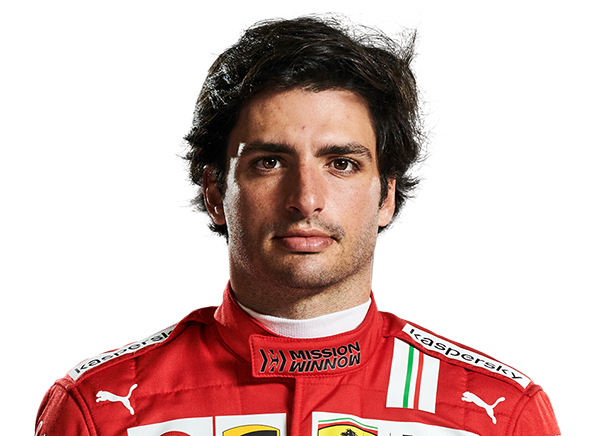
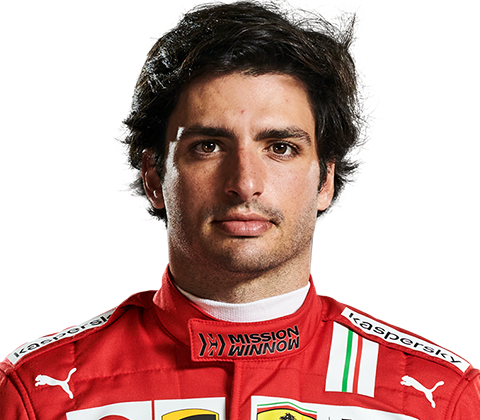
Responsiveness, resolution dependent
Resized some images, implemented a new font, made it so the element sizes are not pixel dependent

diff --git a/BrakingPoint-Frontend/src/views/FerrariTeamView.vue b/BrakingPoint-Frontend/src/views/FerrariTeamView.vue
@@ -1,80 +1,84 @@
 <script setup lang="ts"></script>
 
 <template>
-  <img class="backgroundImage" src="/src/assets/backgrounds/ferrari.png" />
-  <div class="row zdefault">
-    <div class="col-lg-5 col-md-2 col-12" style="position: relative">
-      <img
-        alt="Ferrari"
-        src="/src/assets/teamsymbols/ferrari.png"
-        style="max-width: 500px; margin-left: -100px"
-      />
+  <q-layout>
+    <div>
+      <q-img class="backgroundImage" src="/src/assets/backgrounds/ferrari.png" />
     </div>
-    <div class="col-lg-3 col-md-5 col-12 mx-auto zdefault">
-      <img
-        alt="Forest"
-        src="/src/assets/teammembers/ferrari_charles_leclerc.png"
-        style="height: 25rem"
-      />
-      <p class="racerName">Charles Leclerc</p>
+    <div class="row zdefault">
+      <div class="col-lg-5 col-md-4 col-12" style="position: relative">
+        <q-img alt="Ferrari" src="/src/assets/teamsymbols/ferrari.png" style="max-width: 17.5rem" />
+      </div>
+      <div class="col-lg-3 col-md-4 col-12 zdefault">
+        <q-img
+          alt="Charles Leclerc"
+          class="racerPicture"
+          src="/src/assets/teammembers/ferrari_charles_leclerc.png"
+        />
+        <p class="racerName">Charles Leclerc</p>
+      </div>
+      <div class="col-lg-4 col-md-4 col-12 zdefault">
+        <q-img
+          alt="Carlos Sainz"
+          class="racerPicture"
+          src="/src/assets/teammembers/ferrari_carlos_sainz.png"
+        />
+        <p class="racerName">Carlos Sainz</p>
+      </div>
     </div>
-    <div class="col-lg-4 col-md-4 col-12">
-      <img
-        alt="Mountains"
-        src="/src/assets/teammembers/ferrari_carlos_sainz.png"
-        style="height: 25rem"
-      />
-      <p class="racerName">Carlos Sainz</p>
-    </div>
-  </div>
 
-  <div style="position: relative">
-    <label class="teamInfo">
-      28 nyert futam
-      <br />
-    </label>
-    <label class="teamInfo">
-      12 a mostani szezonban
-      <br />
-    </label>
-    <label class="teamInfo">
-      3. helyezés a csapatok között
-      <br />
-    </label>
-    <label class="teamInfo">
-      placeholder info here
-      <br />
-    </label>
-  </div>
-  <div class="teamDescriptionBackground">
-    <p class="teamDescription">
-      Very Long Description aaaaaaaaaa aaaaaaaa aaaaaaaaaa aaaaaaaaaaaa aaaaaaa aaaaa aaaaaaaaaaaa
-      aaaaa aaaaaa aaaaaaaa aaaaaaaaaa aaaaaaaa aaaaaaaaaaa aaaaaaaa aaaaaa aaa aaaaa aaaa aaaaaaaa
-      aaaaaaa aaaaaaa aaaaaa aaaaaaaaaaaaaa aaaaaaa a aa aaa aaaaaaaaaaaaaaaaaaaaaaaaaaa dvbas
-      dbasfb afd b fda b sdfbndsmfknbksd kjfh kjfdh gkjhskjfhg lkjfsdhglkjsadhfglkja hklfhgla kj hd
-      glkjahsdflkg haljkhfdg lkash gkljahslkg
-    </p>
-  </div>
+    <div style="position: relative">
+      <p class="teamInfo">
+        28 nyert futam
+        <br />
+      </p>
+      <p class="teamInfo">
+        12 a mostani szezonban
+        <br />
+      </p>
+      <p class="teamInfo">
+        3. helyezés a csapatok között
+        <br />
+      </p>
+      <p class="teamInfo">
+        placeholder info here
+        <br />
+      </p>
+    </div>
+    <div class="teamDescriptionBackground">
+      <p class="teamDescription">
+        Very Long Description aaaaaaaaaa aaaaaaaa aaaaaaaaaa aaaaaaaaaaaa aaaaaaa aaaaa aaaaaaaaaaaa
+        aaaaa aaaaaa aaaaaaaa aaaaaaaaaa aaaaaaaa aaaaaaaaaaa aaaaaaaa aaaaaa aaa aaaaa aaaa
+        aaaaaaaa aaaaaaa aaaaaaa aaaaaa aaaaaaaaaaaaaa aaaaaaa a aa aaa aaaaaaaaaaaaaaaaaaaaaaaaaaa
+        dvbas dbasfb afd b fda b sdfbndsmfknbksd kjfh kjfdh gkjhskjfhg lkjfsdhglkjsadhfglkja
+        hklfhgla kj hd glkjahsdflkg haljkhfdg lkash gkljahslkg
+      </p>
+    </div>
+  </q-layout>
 </template>
 
 <style lang="scss" scoped>
+  @font-face {
+    font-family: Wallpoet;
+    src: url(src/assets/fonts/Wallpoet-Regular.otf);
+  }
   .teamInfo {
     color: white;
     font-family: "Yrsa";
     font-style: normal;
     font-weight: 600;
-    font-size: 24px;
-    line-height: 44px;
-    letter-spacing: 0.1em;
+    font-size: 1.5em;
+    line-height: 1.5em;
+    letter-spacing: 0.2em;
   }
 
   .teamDescription {
-    padding: 10px, 10px, 10px, 10px;
+    padding: 0.75rem;
     font-family: "Yrsa";
     font-style: normal;
     font-weight: 400;
-    font-size: 36px;
-    line-height: 44px;
+    font-size: 1.5em;
+    line-height: 1em;
     letter-spacing: 0.1em;
     word-wrap: normal;
 
@@ -85,39 +89,42 @@
     box-sizing: border-box;
 
     margin: auto;
-    margin-top: 75px;
+    margin-top: 2rem;
     position: relative;
     width: 90%;
     height: 250px;
+    border: 0.5em solid #a11717;
     opacity: 1;
-    background: #e6002b;
-    border-radius: 20px;
+    border-radius: 3em;
     padding: 1rem;
+    box-shadow: 0px 4px 10px 10px rgba(0, 0, 0, 0.25);
   }
 
   .racerName {
     position: relative;
-
     font-family: "Wallpoet";
     font-style: normal;
     font-weight: 400;
-    font-size: 40px;
-    line-height: 40px;
+    font-size: 2em;
+    line-height: 1em;
     letter-spacing: 0.1em;
-    text-align: center;
-    margin-top: 10px;
+    margin-top: 0.5em;
 
     color: #ffffff;
   }
   .backgroundImage {
     position: absolute;
+    top: 12em;
+    width: 80em;
     z-index: 0;
-    height: 900px;
     opacity: 0.5;
-    margin: auto;
-    background-position: center;
   }
   .zdefault {
     z-index: 1;
+  }
+  .racerPicture {
+    height: 15em;
+    width: 15em;
+    box-shadow: 0px 4px 10px 10px rgba(0, 0, 0, 0.25);
   }
 </style>
